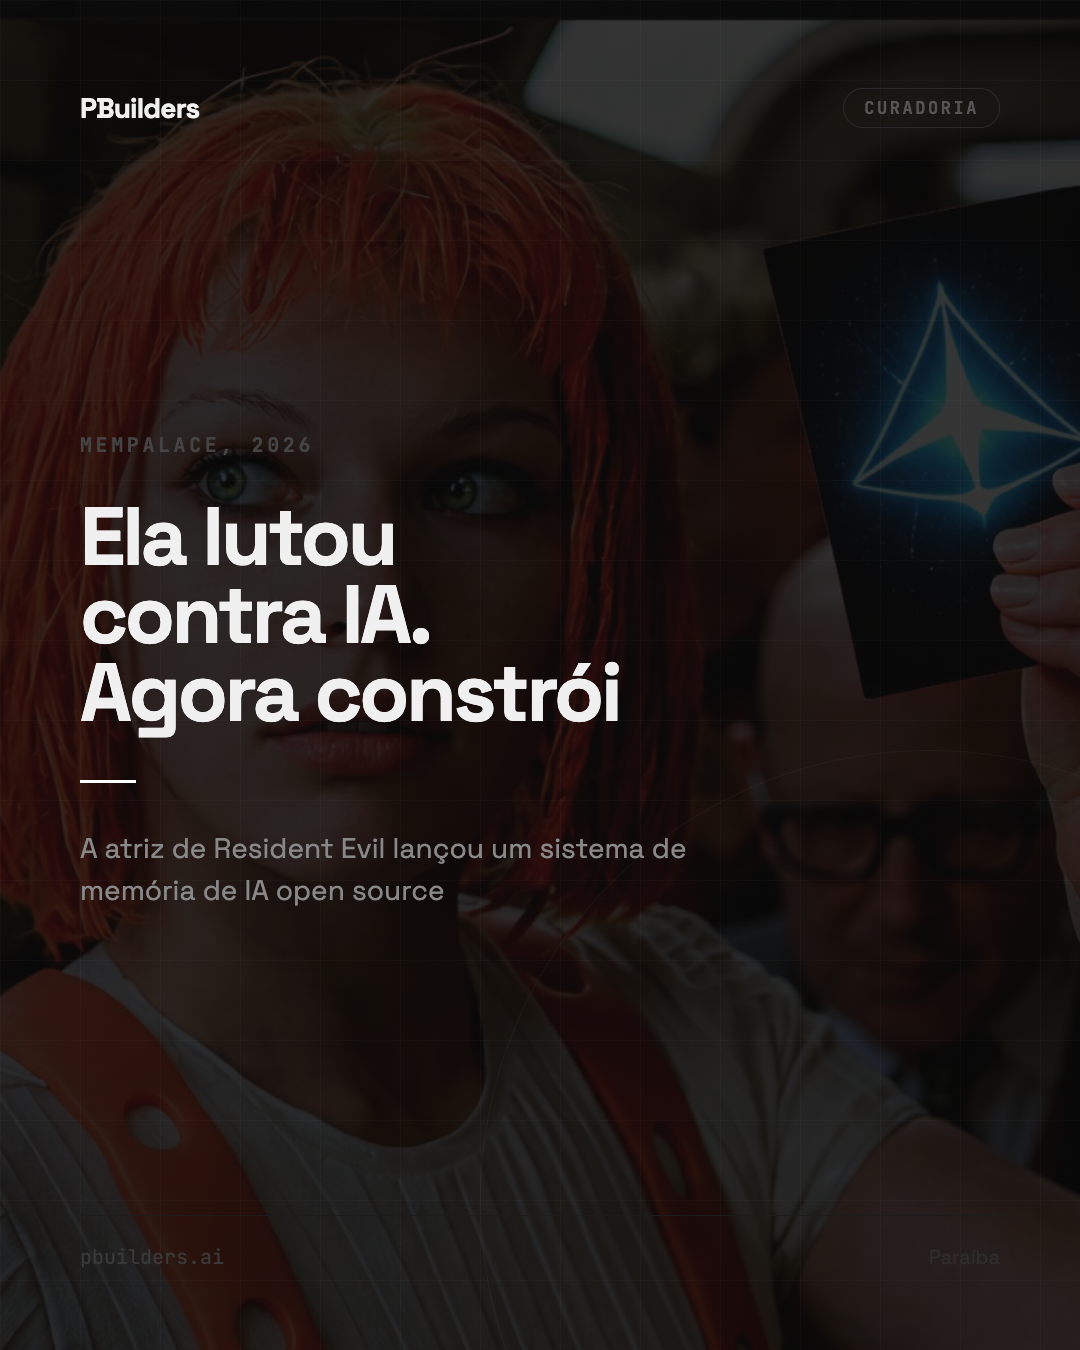
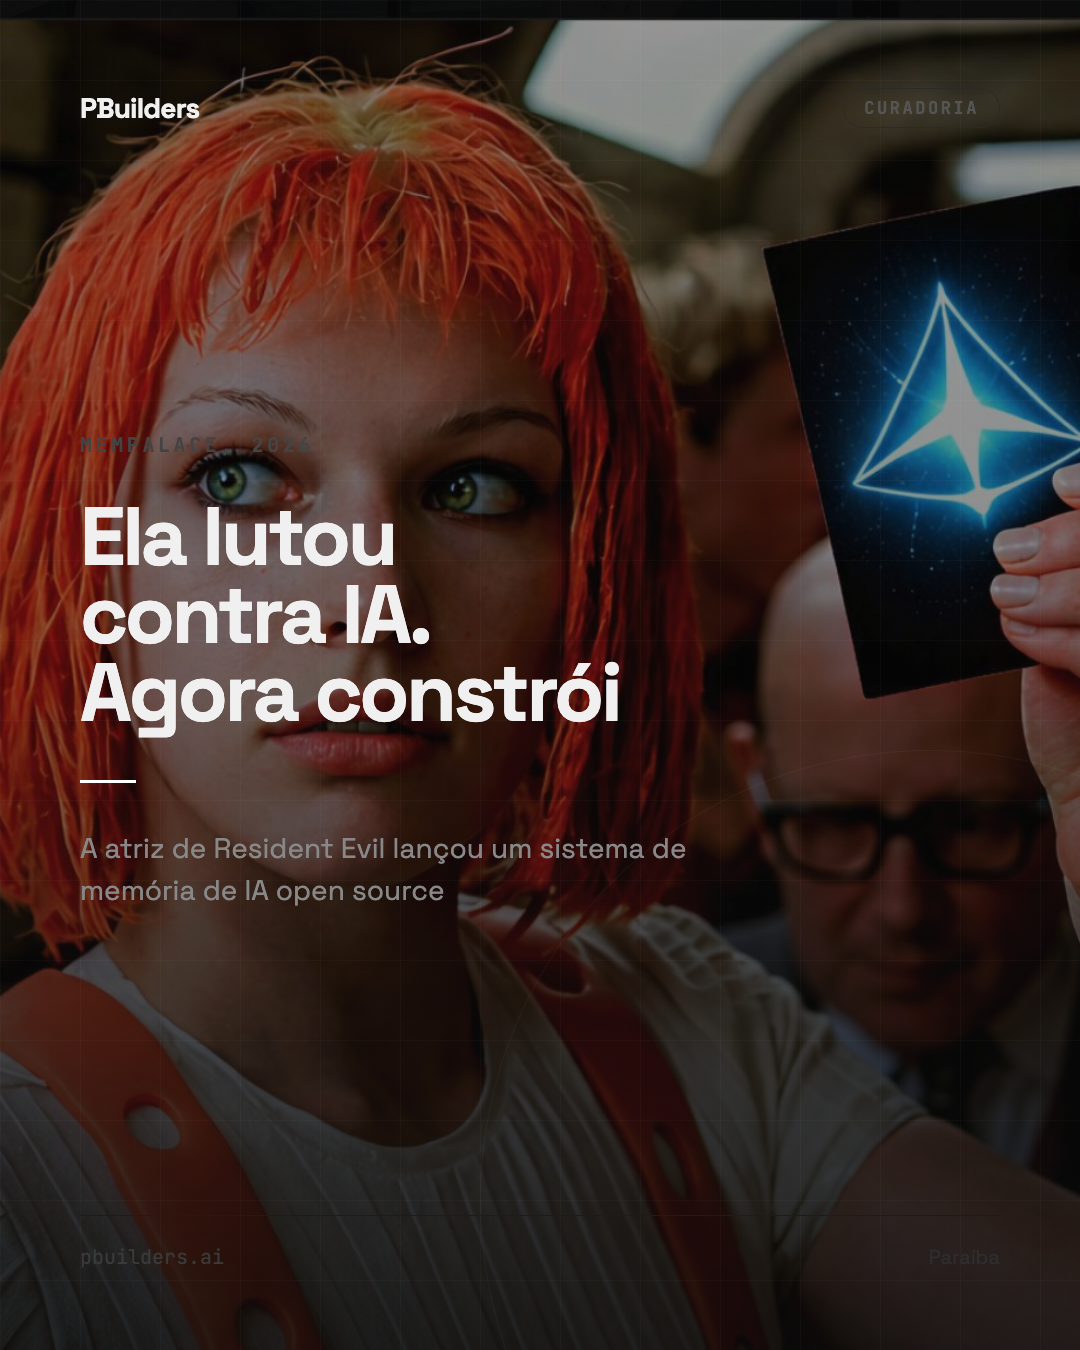
MemPalace: reduzir overlay da foto — rosto da Milla mais visível

diff --git a/content/2026-04-08-mempalace/whatsapp-cover.html b/content/2026-04-08-mempalace/whatsapp-cover.html
@@ -22,7 +22,11 @@
       width: 1080px;
       height: 1080px;
       background:
-        linear-gradient(rgba(10,10,10,0.80), rgba(10,10,10,0.80)),
+        linear-gradient(to bottom,
+          rgba(10,10,10,0.38) 0%,
+          rgba(10,10,10,0.48) 50%,
+          rgba(10,10,10,0.72) 80%,
+          rgba(10,10,10,0.85) 100%),
         url('milla.png') center/cover no-repeat;
       position: relative;
       overflow: hidden;

diff --git a/content/2026-04-08-mempalace/instagram-carousel.html b/content/2026-04-08-mempalace/instagram-carousel.html
@@ -129,7 +129,11 @@
     /* ── SLIDE 1 — HOOK (foto background) ── */
     #s1 {
       background:
-        linear-gradient(rgba(10,10,10,0.82), rgba(10,10,10,0.82)),
+        linear-gradient(to bottom,
+          rgba(10,10,10,0.40) 0%,
+          rgba(10,10,10,0.45) 50%,
+          rgba(10,10,10,0.72) 80%,
+          rgba(10,10,10,0.85) 100%),
         url('milla.png') center/cover no-repeat;
     }
 
